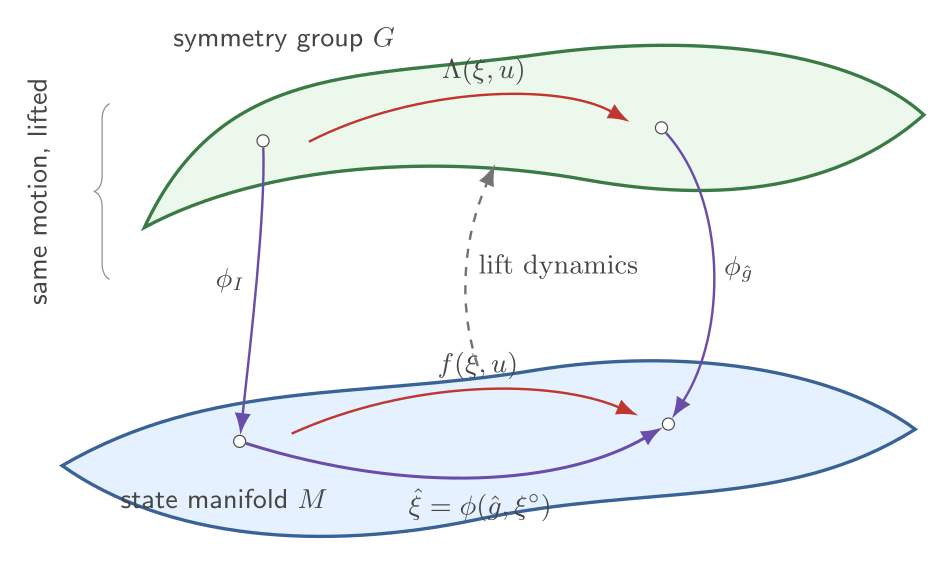
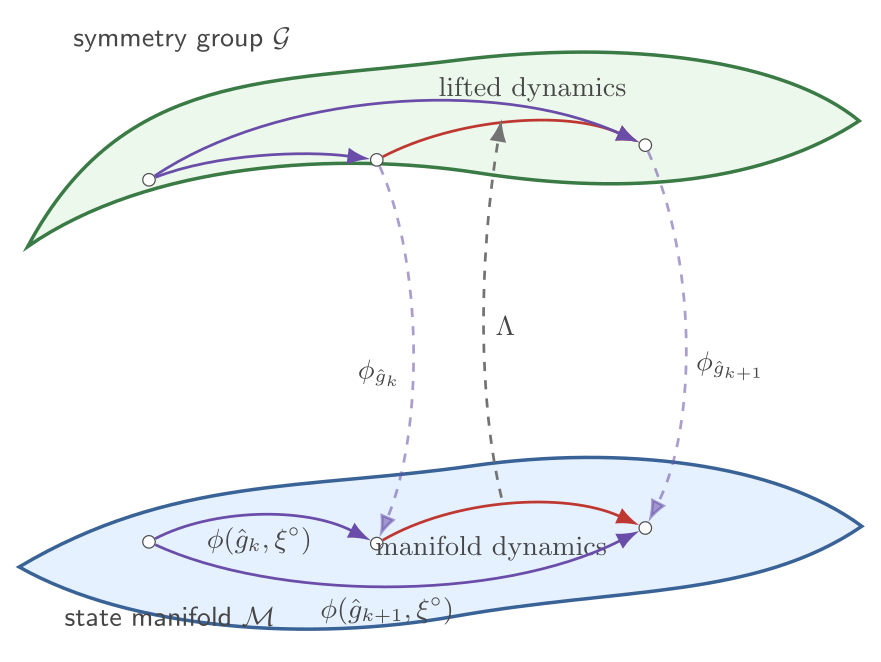
Move figure

diff --git a/assets/images/equivariant/group-action-manifold.tex b/assets/images/equivariant/group-action-manifold.tex
@@ -1,5 +1,5 @@
 \documentclass[tikz,border=2mm]{standalone}
-\usetikzlibrary{arrows.meta,calc,decorations.pathreplacing,positioning}
+\usetikzlibrary{arrows.meta,calc}
 
 \definecolor{manifoldFill}{RGB}{229,241,255}
 \definecolor{manifoldDraw}{RGB}{57,98,150}
@@ -15,66 +15,77 @@
   font=\sffamily,
   label/.style={font=\small\sffamily, text=textGray},
   mathlabel/.style={font=\small, text=textGray},
-  state/.style={circle, draw=black!70, fill=white, inner sep=1.4pt},
-  arrow/.style={line width=0.8pt, -{Latex[length=2.5mm]}},
-  flow/.style={arrow, draw=flowRed},
+  state/.style={circle, draw=black!70, fill=white, inner sep=1.45pt},
+  arrow/.style={line width=0.9pt, -{Latex[length=2.6mm]}},
+  dyn/.style={arrow, draw=flowRed},
   action/.style={arrow, draw=actionPurple},
   lift/.style={arrow, draw=black!55, dashed}
 ]
 
-% The state manifold.
-\path[fill=manifoldFill, draw=manifoldDraw, line width=1.1pt]
-  (-4.9,-1.20)
-  .. controls (-3.7,-2.05) and (-1.9,-2.20) .. (-0.1,-1.82)
-  .. controls (1.9,-1.40) and (3.45,-1.72) .. (4.95,-0.78)
-  .. controls (4.0,-0.08) and (2.25,0.18) .. (0.55,-0.10)
-  .. controls (-1.45,-0.43) and (-3.18,-0.20) .. (-4.9,-1.20)
+% Hovering symmetry group.
+\path[fill=groupFill, draw=groupDraw, line width=1.15pt]
+  (-4.75,1.95)
+  .. controls (-3.35,2.92) and (-1.15,3.05) .. (0.45,2.80)
+  .. controls (2.25,2.52) and (3.78,2.70) .. (4.85,3.40)
+  .. controls (4.00,4.10) and (2.20,4.35) .. (0.20,4.10)
+  .. controls (-1.95,3.83) and (-3.65,4.00) .. (-4.75,1.95)
   -- cycle;
-\node[label, anchor=west] at (-4.35,-1.58) {state manifold $M$};
+\node[label, anchor=west] at (-4.35,4.34) {symmetry group $\mathcal{G}$};
 
-% Manifold points and dynamics.
-\node[state, label={[mathlabel]below:$\xi^\circ$}] (xref) at (-2.85,-0.92) {};
-\node[state, label={[mathlabel]below:$\hat{\xi}$}] (xhat) at (2.10,-0.72) {};
-\draw[flow] (-2.25,-0.83)
-  .. controls (-0.85,-0.20) and (0.75,-0.20) .. (1.75,-0.62)
-  node[midway, above, mathlabel] {$f(\xi,u)$};
-\draw[action, line width=1.0pt] (xref)
-  .. controls (-0.85,-1.55) and (0.90,-1.42) .. (xhat)
-  node[midway, below, mathlabel] {$\hat{\xi}=\phi(\hat{g},\xi^\circ)$};
-
-% The hovering symmetry group.
-\path[fill=groupFill, draw=groupDraw, line width=1.1pt]
-  (-3.95,1.55)
-  .. controls (-2.55,2.30) and (-0.50,2.40) .. (1.15,2.10)
-  .. controls (2.95,1.78) and (4.20,2.10) .. (5.05,2.85)
-  .. controls (4.28,3.55) and (2.58,3.82) .. (0.62,3.55)
-  .. controls (-1.45,3.26) and (-3.05,3.48) .. (-3.95,1.55)
+% Physical state manifold.
+\path[fill=manifoldFill, draw=manifoldDraw, line width=1.15pt]
+  (-4.85,-1.75)
+  .. controls (-3.55,-2.48) and (-1.50,-2.62) .. (0.18,-2.32)
+  .. controls (2.10,-1.98) and (3.65,-2.12) .. (4.88,-1.28)
+  .. controls (3.90,-0.55) and (2.10,-0.34) .. (0.40,-0.58)
+  .. controls (-1.55,-0.86) and (-3.08,-0.70) .. (-4.85,-1.75)
   -- cycle;
-\node[label, anchor=west] at (-3.74,3.72) {symmetry group $G$};
+\node[label, anchor=west] at (-4.45,-2.32) {state manifold $\mathcal{M}$};
 
-% Group points and lifted dynamics.
-\node[state, label={[mathlabel]above:$I$}] (gid) at (-2.58,2.55) {};
-\node[state, label={[mathlabel]above:$\hat{g}$}] (ghat) at (2.02,2.70) {};
-\draw[flow] (-2.05,2.54)
-  .. controls (-0.80,3.18) and (0.85,3.22) .. (1.65,2.77)
-  node[midway, above, mathlabel] {$\Lambda(\xi,u)$};
+% Reference elements.
+\node[state, label={[mathlabel]left:$\xi^\circ$}] (xref) at (-3.35,-1.46) {};
+\node[state, label={[mathlabel]left:$I$}] (gid) at (-3.35,2.72) {};
 
-% Lift and action relationships.
-\draw[lift] (-0.10,-0.05)
-  .. controls (-0.35,0.70) and (-0.25,1.48) .. (0.10,2.28)
-  node[midway, right, mathlabel] {lift dynamics};
+% Estimates on group and manifold at two time steps.
+\node[state, label={[mathlabel]above:$\hat{g}_k$}] (gk) at (-0.72,2.95) {};
+\node[state, label={[mathlabel]above:$\hat{g}_{k+1}$}] (gkp1) at (2.38,3.12) {};
 
-\draw[action] (ghat)
-  .. controls (2.78,1.86) and (2.78,0.34) .. (xhat)
-  node[midway, right, mathlabel] {$\phi_{\hat{g}}$};
+\node[state, label={[mathlabel]below:$\hat{\xi}_k$}] (xk) at (-0.72,-1.48) {};
+\node[state, label={[mathlabel]below:$\hat{\xi}_{k+1}$}] (xkp1) at (2.38,-1.30) {};
+
+% Dynamics arrows: same time step progression on both spaces.
+\draw[dyn] (gk)
+  .. controls (0.18,3.42) and (1.46,3.54) .. (gkp1)
+  node[pos=0.58, above=3pt, mathlabel] {lifted dynamics};
+\draw[dyn] (xk)
+  .. controls (0.18,-0.96) and (1.46,-0.88) .. (xkp1)
+  node[pos=0.43, below=6pt, mathlabel] {manifold dynamics};
+
+% Group-action arrows from identity/reference to the corresponding estimates.
 \draw[action] (gid)
-  .. controls (-2.55,1.72) and (-2.72,0.25) .. (xref)
-  node[midway, left, mathlabel] {$\phi_I$};
+  .. controls (-2.58,3.02) and (-1.55,3.06) .. (gk);
+\draw[action] (xref)
+  .. controls (-2.62,-1.08) and (-1.56,-1.05) .. (xk)
+  node[midway, below, mathlabel] {$\phi(\hat{g}_k,\xi^\circ)$};
 
-% Explanatory brace.
-\draw[decorate, decoration={brace, amplitude=5pt}, draw=black!45]
-  (-4.35,0.95) -- (-4.35,2.98)
-  node[midway, xshift=-0.82cm, rotate=90, label] {same motion, lifted};
+\draw[action] (gid)
+  .. controls (-1.90,3.70) and (0.62,3.92) .. (gkp1);
+\draw[action] (xref)
+  .. controls (-1.92,-2.12) and (0.64,-2.18) .. (xkp1)
+  node[midway, below, mathlabel] {$\phi(\hat{g}_{k+1},\xi^\circ)$};
+
+% Vertical correspondences from group estimates to manifold estimates.
+\draw[action, dashed, opacity=0.55] (gk)
+  .. controls (-0.18,1.75) and (-0.18,-0.18) .. (xk)
+  node[pos=0.56, left, mathlabel, opacity=1] {$\phi_{\hat{g}_k}$};
+\draw[action, dashed, opacity=0.55] (gkp1)
+  .. controls (2.98,1.78) and (2.98,-0.12) .. (xkp1)
+  node[pos=0.56, right, mathlabel, opacity=1] {$\phi_{\hat{g}_{k+1}}$};
+
+% Lift relation between the two dynamics arrows.
+\draw[lift] (0.72,-0.95)
+  .. controls (0.45,0.18) and (0.45,1.76) .. (0.72,3.42)
+  node[midway, right, mathlabel] {$\Lambda$};
 
 \end{tikzpicture}
 \end{document}

diff --git a/_posts/2026-04-28-equivariant.md b/_posts/2026-04-28-equivariant.md
@@ -26,21 +26,13 @@ This post is meant as a quick tutorial introduction for GTSAM users. The foundat
 
 ## The Gap in the Hierarchy
 
-<figure class="center" style="width: 100%; max-width: 900px;">
-  <img src="/assets/images/equivariant/group-action-manifold.png"
-    alt="A symmetry group hovering above a physical manifold, with lifted dynamics on the group and a group action pushing a reference state around the manifold"
-    style="width: 100%;" />
-  <figcaption>EqF keeps the physical state on the manifold, while a symmetry group above it transports the dynamics, error, and uncertainty. The group action pushes the state around the manifold to recover the current estimate.</figcaption>
-</figure>
-<br />
-
 The shortest possible summary is:
 
 > `EquivariantFilter` is an error-state Kalman filter where the error is chosen using a symmetry action, even when the physical state is not itself a group.
 
 Let's unpack this:
 
-The `ManifoldEKF` is the most general: it only needs a manifold state $\cal M$: an object with a `retract`, and `localCoordinates`. That works for `Pose3`, `Rot3`, `NavState`, ordinary vectors, and also for `Unit3`, which represents a direction on the unit sphere. The catch is that the covariance and linearized dynamics are tied to the current estimate. That is the standard EKF story on a manifold.
+The `ManifoldEKF` is the most general: it only needs a manifold state $\mathcal{M}$: an object with a `retract`, and `localCoordinates`. That works for `Pose3`, `Rot3`, `NavState`, ordinary vectors, and also for `Unit3`, which represents a direction on the unit sphere. The catch is that the covariance and linearized dynamics are tied to the current estimate. That is the standard EKF story on a manifold.
 
 The `InvariantEKF` is more specialized: it assumes the state is a Lie group and uses group structure to define an invariant error. When the dynamics have the right form, the propagated error no longer depends on the current estimate. This is why invariant filters are attractive at startup or during large transients: a bad estimate does not immediately make the covariance propagation bad in the same way a standard EKF linearization can.
 
@@ -48,8 +40,8 @@ The `EquivariantFilter` sits between those two ideas: the state can be a manifol
 
 In other words, the "EqF" lets us have our cake and eat it too:
 
-- the physical state can be a general manifold $\cal M$
-- the uncertainty propagation can exploit a symmetry group $\cal G$
+- the physical state can be a general manifold $\mathcal{M}$
+- the uncertainty propagation can exploit a symmetry group $\mathcal{G}$
 - the usual EKF machinery still handles prediction, Kalman gain, and measurement update
 
 ## A Simple Example
@@ -108,6 +100,14 @@ This is the extra structure beyond `ManifoldEKF`. EqF does not require the state
 
 ## The EqF Idea
 
+<figure class="center" style="width: 100%; max-width: 900px;">
+  <img src="/assets/images/equivariant/group-action-manifold.png"
+    alt="A symmetry group hovering above a physical manifold, with red dynamics arrows from timestep k to k plus one and purple group-action arrows from the reference state to each estimate"
+    style="width: 100%;" />
+  <figcaption>EqF keeps the physical estimate on the manifold <i>M</i>, while the lifted estimate evolves on the symmetry group <i>G</i>. The dashed purple arrows show the group actions from the reference state to the estimates at <i>k</i> and <i>k+1</i>, and the dashed gray lift arrow maps the manifold dynamics to the corresponding group dynamics.</figcaption>
+</figure>
+<br />
+
 Instead of storing the estimate directly as a state $\hat{\xi}$ on the manifold, the EqF stores a group element $\hat{X}$ and applies it to a fixed reference state $\xi^\circ$:
 
 $$
@@ -138,7 +138,7 @@ During prediction, the **lift** converts physical dynamics into a small motion i
 
 The price of the extra structure is that the model has to expose the right symmetries. For a concrete EqF, the user provides:
 
-- the physical state manifold $\cal M$
+- the physical state manifold $\mathcal{M}$
 - the symmetry action, encoded as a `Symmetry` functor
 - a lift from physical dynamics to group motion
 - the input action needed to express the dynamics equivariantly
@@ -153,14 +153,14 @@ The generic implementation lives in [`gtsam/navigation/EquivariantFilter.h`](htt
 
 It is templated on:
 
-- $\cal M$, the physical manifold state type
+- $\mathcal{M}$, the physical manifold state type
 - `Symmetry`, the functor that defines the group action
 
 The class inherits from `ManifoldEKF<M>`, so it reuses the same covariance, Kalman gain, and Joseph-form update machinery from the base hierarchy. The EqF-specific part is the additional symmetry bookkeeping.
 
 In the implementation:
 
-- `Symmetry::Group` is the group $\cal G$ used internally
+- `Symmetry::Group` is the group $\mathcal{G}$ used internally
 - `xi_ref_` is the fixed reference state $\xi^\circ$
 - `g_` is the lifted group estimate
 - `act_on_ref_(g_)` recovers the current manifold estimate